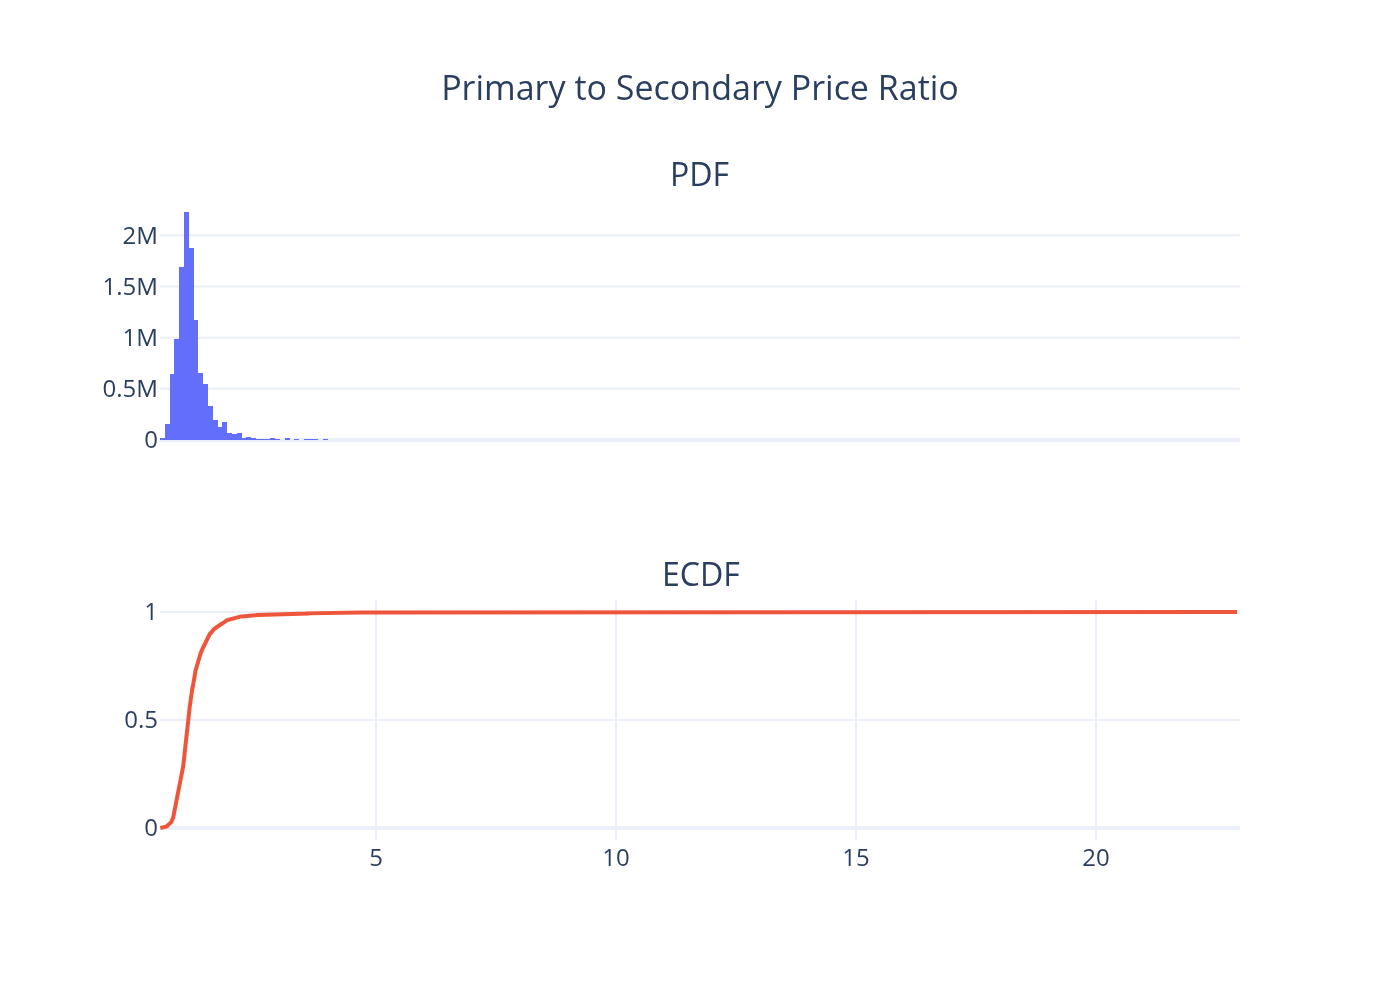
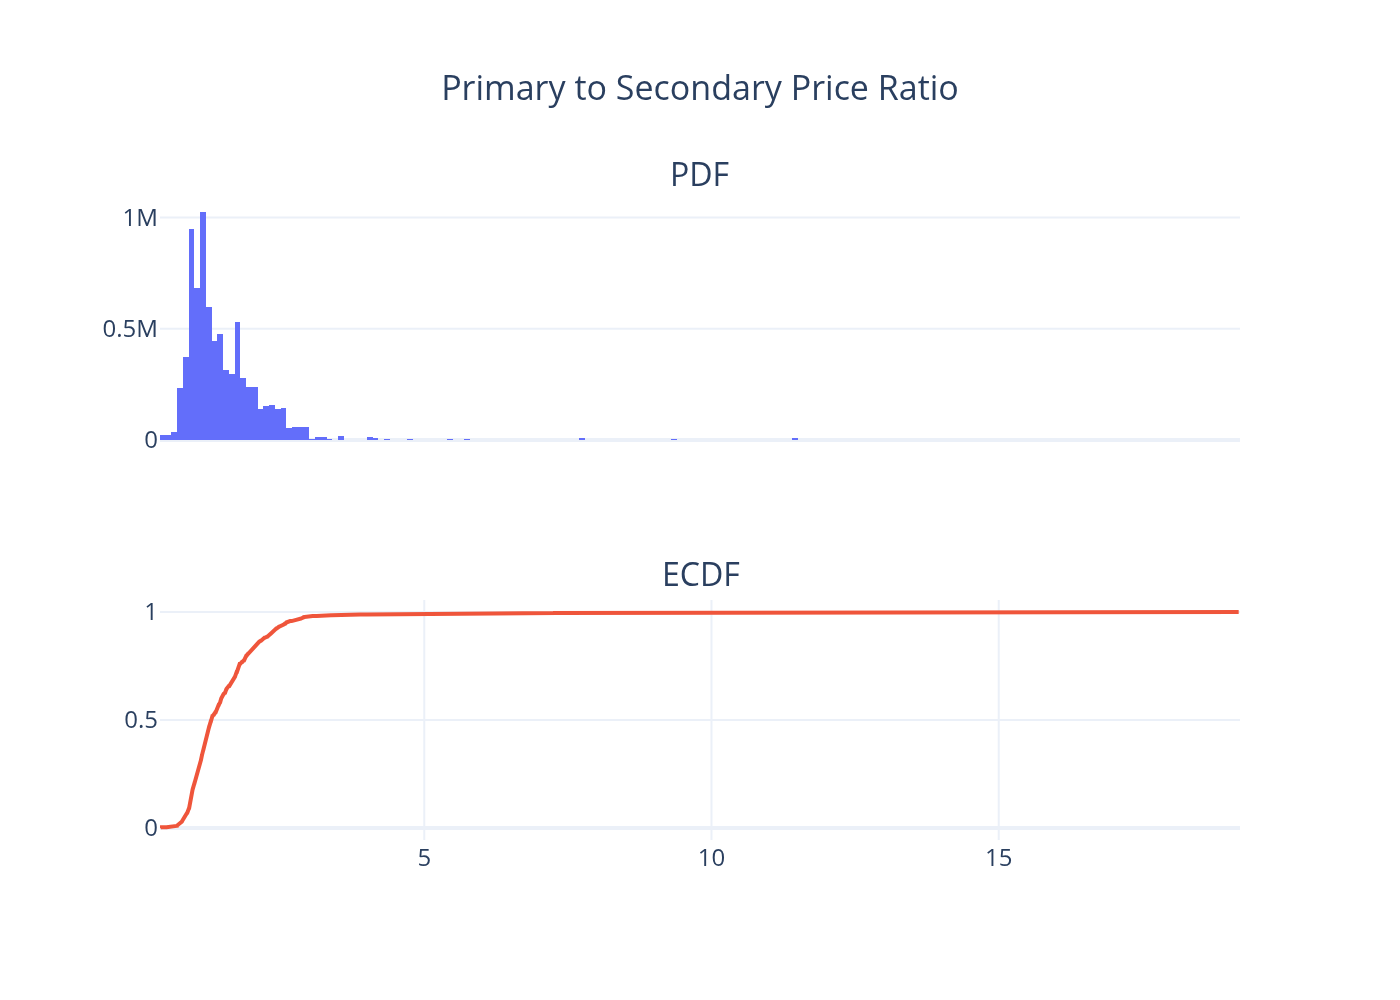
fix

diff --git a/src/report/plots.py b/src/report/plots.py
@@ -48,10 +48,9 @@ def plot_pdf_ecdf_by_district(
     title,
 ):
 
-    height_per_district = 600
+    height_per_district = 800
     # Get unique districts, preserving NaN, and sort nicely
     districts = df[district_col].unique()
-    # Sort non-null districts and put Missing at the end
     sorted_districts = sorted([d for d in districts if pd.notna(d)])
     districts_list = sorted_districts + [np.nan]
 
@@ -100,6 +99,7 @@ def plot_pdf_ecdf_by_district(
             continue
 
         x = np.sort(data.values)
+        median = data.median()  # ← Добавлено
 
         # === PDF (Histogram) ===
         fig.add_trace(
@@ -112,6 +112,14 @@ def plot_pdf_ecdf_by_district(
             ),
             row=row,
             col=1,
+        )
+
+        # Вертикальная линия медианы на PDF
+        fig.add_vline(
+            x=median,
+            row=row,
+            col=1,
+            line=dict(color="orange", width=2.5),
         )
 
         # === ECDF ===
@@ -128,6 +136,14 @@ def plot_pdf_ecdf_by_district(
             col=1,
         )
 
+        # Вертикальная линия медианы на ECDF
+        fig.add_vline(
+            x=median,
+            row=row + 1,
+            col=1,
+            line=dict(color="orange", width=2.5),
+        )
+
         row += 2
 
     # Update layout
@@ -142,9 +158,7 @@ def plot_pdf_ecdf_by_district(
         margin=dict(t=80, b=40, l=80, r=40),
     )
 
-    fig.update_xaxes(
-        title_text=column, row=2 * n_districts, col=1
-    )  # only bottom x-axis label
+    fig.update_xaxes(title_text=column, row=2 * n_districts, col=1)
 
     return fig
 

diff --git a/src/stages/06_report.py b/src/stages/06_report.py
@@ -11,7 +11,7 @@ def main():
 
     fig = plot_pdf_ecdf(
         df,
-        column="primary_to_secondary_price_ratio",
+        column="primary_to_secondary_wnir_ratio",
         title="Primary to Secondary Price Ratio",
         bin_size=0.1,
     )
@@ -20,11 +20,11 @@ def main():
     )
 
     fig = plot_pdf_ecdf_by_district(
-        df,
-        "primary_to_secondary_price_ratio",
-        "administrative_district",
-        0.1,
-        "Primary to Secondary Price Ratio by administrative district",
+        df=df,
+        column="primary_to_secondary_wnir_ratio",
+        district_col="administrative_district",
+        bin_size=0.1,
+        title="Primary to Secondary Price Ratio by administrative district",
     )
     fig.write_image(
         "reports/pdf_ecdf_primary_to_secondary_price_ratio_by_administrative_district.png",
@@ -36,7 +36,7 @@ def main():
         df,
         "latitude",
         "longitude",
-        "primary_to_secondary_price_ratio",
+        "primary_to_secondary_wnir_ratio",
         "Primary to Secondary Price Ratio heatmap",
         params["geo"]["longitude"]["min"],
         params["geo"]["longitude"]["max"],